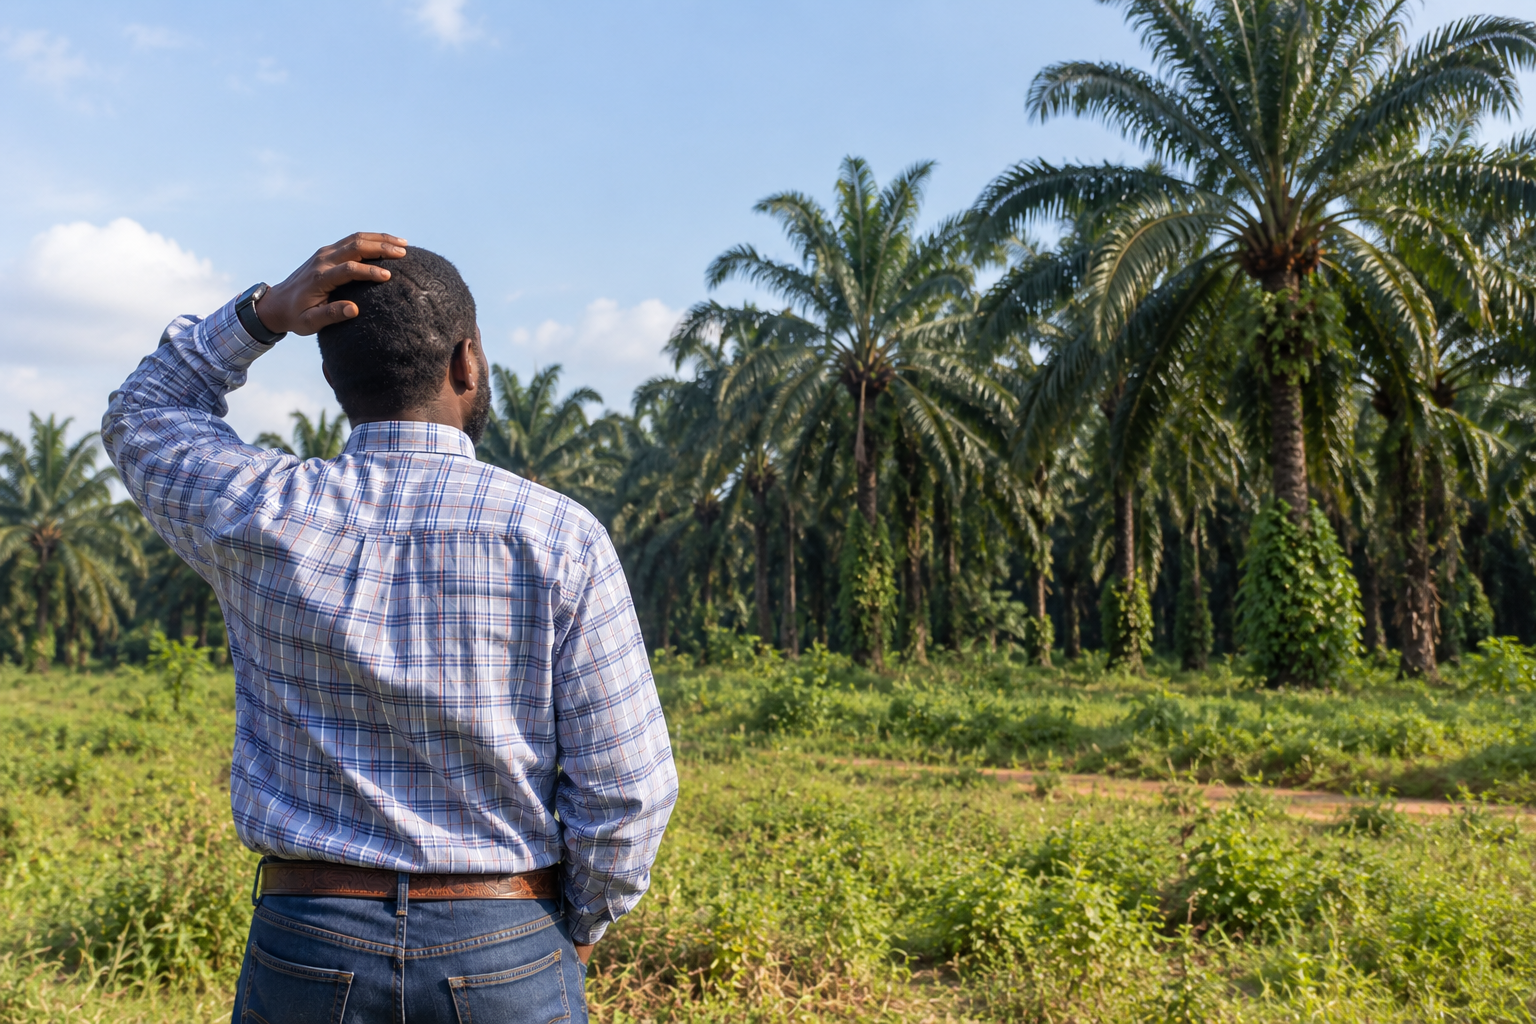
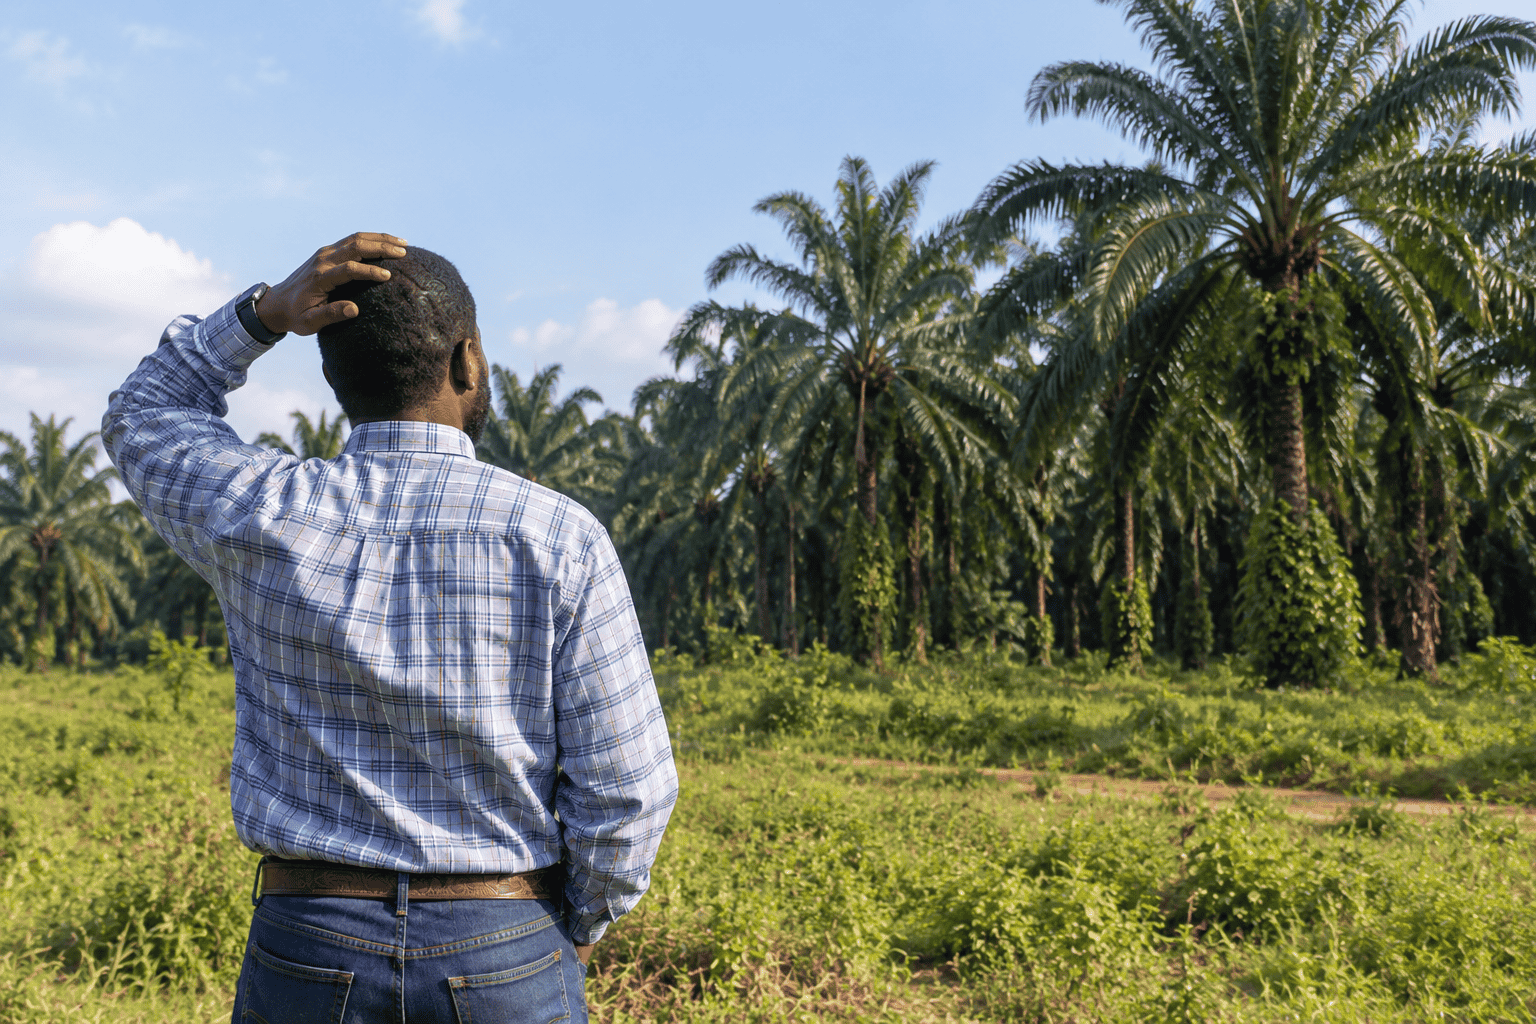
owners page fix

diff --git a/src/routes/os.tsx b/src/routes/os.tsx
@@ -93,12 +93,12 @@ function TelalaOS() {
 
             {/* Right Column: Header text 2 and its associated paragraph */}
             <Rise delay={0.2}>
-              <div>
+              <div className="space-y-6 pt-2 w-[70ch]">
                 <h2 className="beat-lg text-white">What you can't <span className="text-signal">see</span> is where the margins <span className="text-signal">leak</span></h2>
-                <p className="quiet mt-4 text-base text-white leading-relaxed w-[45ch]">
+                <p className="quiet mt-4 text-base text-white leading-relaxed w-[100ch]">
                   Loss on a plantation rarely shows itself. It looks like a normal Tuesday. A weight that's a bit off. A truck that took too long, with no reason why. A block that doesn't add up once it reaches the mill.
                 </p>
-                <p className="quiet mt-4 text-base leading-relaxed font-medium text-black">
+                <p className="quiet mt-4 text-base leading-relaxed font-medium text-white">
                   It's not about blame. It's that no one — not you, not your managers — has a way to know, one way or the other.
                 </p>
               </div>
